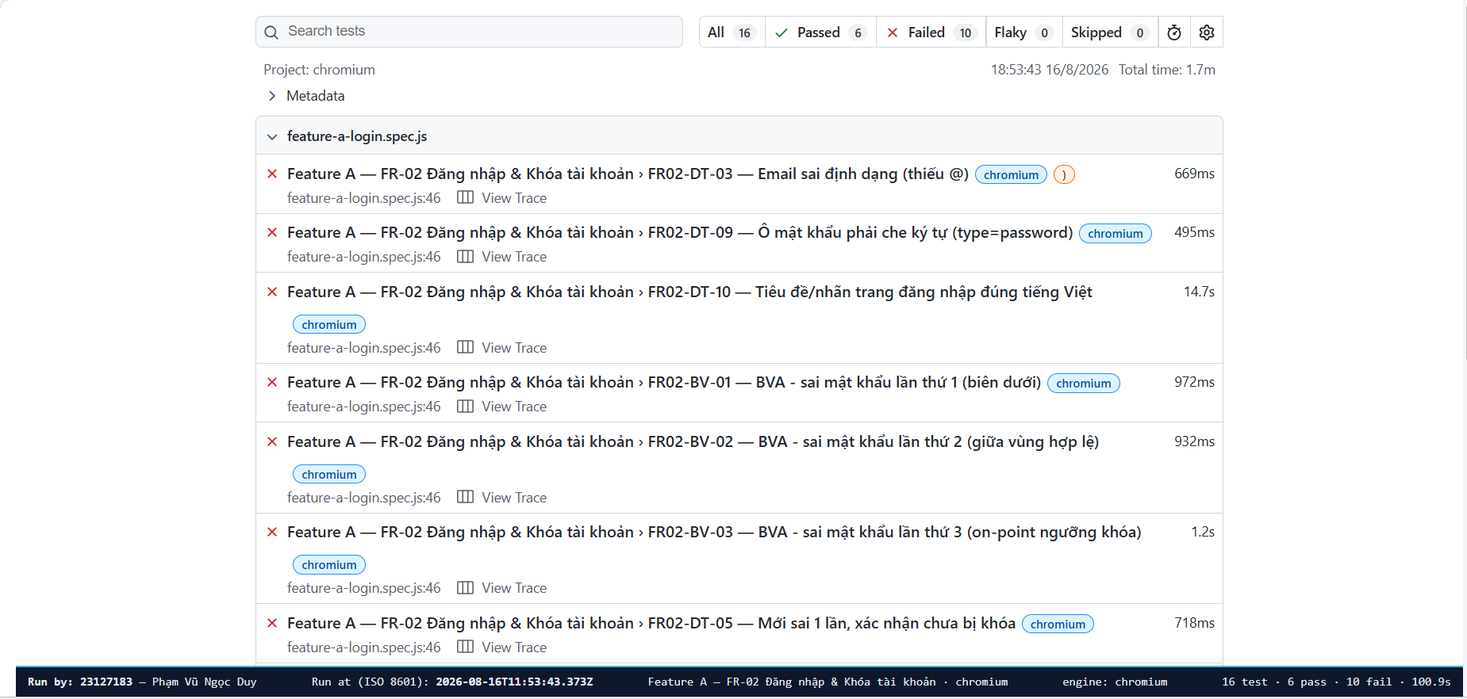
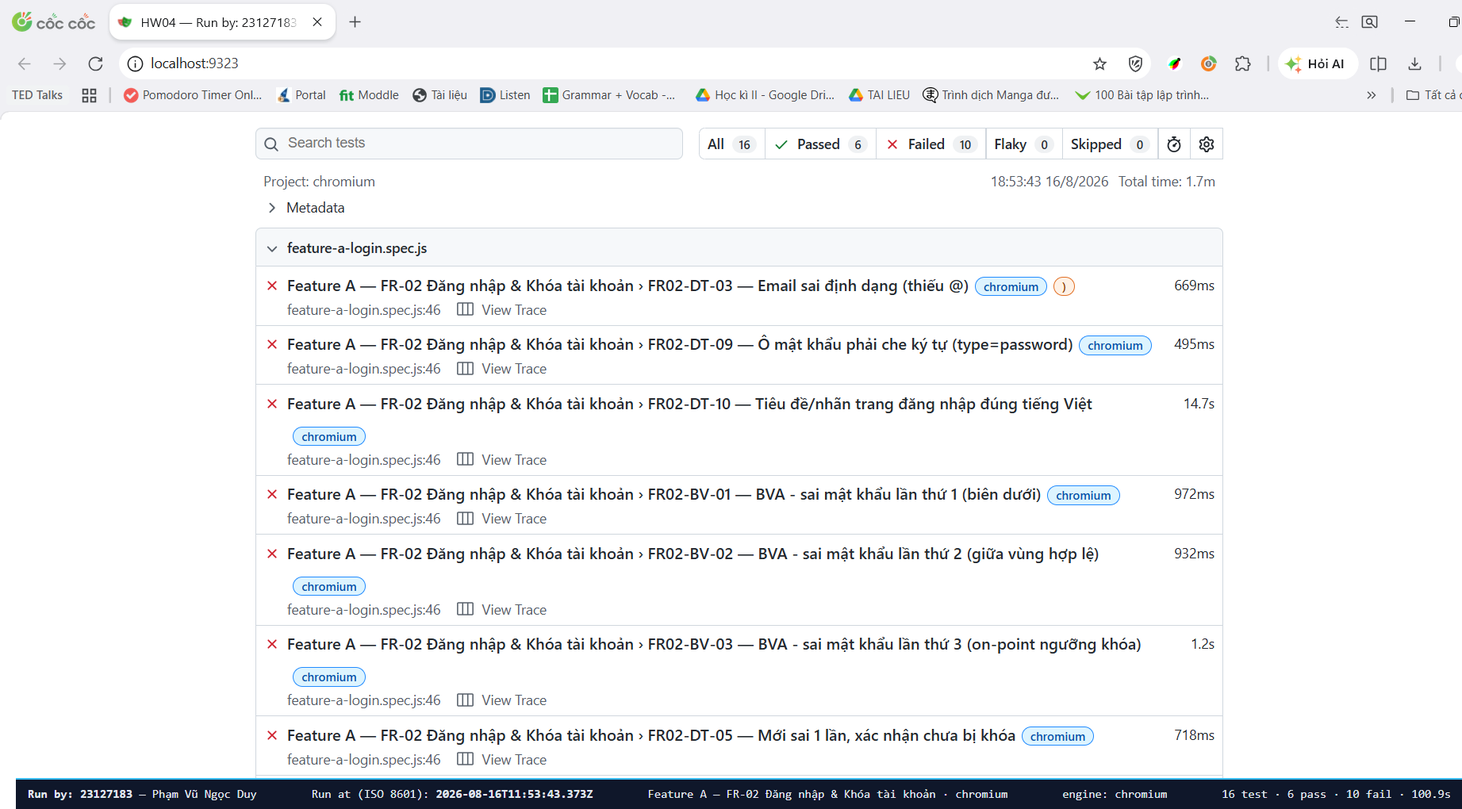
fix(docs10): sua prompt goi skill bi loi Unknown command + rut gon noi dung
Nguoi dung go /automation-suite nhu slash-command va bi Claude Code bao
"Unknown command" - dung, vi Claude Code khong dang ky Agent Skill thanh
slash-command goi bang dau '/'. Sua ca 4 prompt [2][3][4][6] tu cu phap
"/ten-skill ..." sang cau binh thuong co nhac ten skill + duong dan
SKILL.md, de Claude tu nhan dien va goi qua cong cu Skill (hien dong
Skill(...) trong hoi thoai - da them ghi chu quay lai doan do lam bang
chung).

Them nhan 📋 PROMPT [N] ro rang truoc moi khoi prompt (ca trong bang
canh lan muc 4) de phan biet doan nao doc thuyet minh, doan nao dan
nguyen van vao Claude Code.

Rut gon loi thoai trong bang 6 canh (bot cau lap lai, giu nguyen so
lieu/ten bug/chi tiet ky thuat that).

docs/14: danh dau tab-title-manual.png DA DAT sau khi chup lai lan 3 -
tab hien dung "HW04 - Run by: 23127183" (xac nhan bang anh moi nguoi
dung gui).

diff --git a/docs/10-AGENT-SKILLS.md b/docs/10-AGENT-SKILLS.md
@@ -1,12 +1,22 @@
 # Agent Skills (§7) + Kịch bản quay video demo skill
 
 > **Yêu cầu (§7):** nộp Agent Skill **kèm video demo** cho thấy dùng skill **end-to-end trên một
-> feature hoàn chỉnh**. YouTube **Unlisted**. Bảng §15 chấm **10 điểm** cho hạng mục này ⇒ không
-> phải "khuyến khích", cứ coi là bắt buộc.
+> feature hoàn chỉnh**. YouTube **Unlisted**. Bảng §15 chấm **10 điểm** cho hạng mục này.
 >
-> **Kịch bản này dài ~7 phút 20.** Bốn skill, mỗi skill **một cảnh**, làm đúng một công thức ba
-> nhịp — **đọc skill gồm những bước nào → gõ prompt gọi nó → mở thành quả ra xem bên trong có gì**.
-> Feature dùng xuyên suốt: **C — FR-15 Quản lý Sản phẩm** (feature tìm ra cả 2 bug mới của bài).
+> **Kịch bản dài ~7 phút 20.** Bốn skill, mỗi skill **một cảnh**, làm đúng một công thức ba nhịp —
+> **đọc skill gồm bước nào → gõ prompt gọi nó → mở thành quả ra xem**. Feature xuyên suốt:
+> **C — FR-15 Quản lý Sản phẩm** (feature tìm ra cả 2 bug mới của bài).
+
+> ⚠ **Đã sửa lỗi `Unknown command: /automation-suite`.** Claude Code **không** đăng ký Agent
+> Skill thành slash-command để gõ `/tên-skill` như lệnh có sẵn — gõ vậy sẽ báo lỗi đúng như bạn
+> gặp. Cách gọi đúng: viết **câu bình thường có nhắc tên skill** (ví dụ "*Dùng skill
+> automation-suite để...*"), Claude tự nhận diện qua mô tả trong `SKILL.md` rồi gọi bằng công cụ
+> `Skill` nội bộ — bạn sẽ thấy dòng `Skill(automation-suite)` hiện ra trong hội thoại, **đó chính
+> là bằng chứng skill được gọi thật, nhớ quay lại đoạn đó**. Các prompt ở mục 4 bên dưới đã sửa
+> theo cách gọi này.
+>
+> 📋 **Quy ước trong file này:** mọi khối có nhãn **"PROMPT [N]"** là dán **y nguyên** vào Claude
+> Code — không diễn giải, không gõ lại theo ý mình.
 
 ---
 
@@ -32,51 +42,53 @@ câu hỏi đó.
 
 ## 2. Chuẩn bị trước khi bấm REC
 
-- [ ] SUT đang chạy (xem [09-VIDEO-TASK2.md](09-VIDEO-TASK2.md) §0.1), rồi `npm run preflight` → 6 dòng `[OK]`
-- [ ] Mở sẵn **Claude Code** trong VS Code, tại thư mục `HW04-Automation-Testing`
-- [ ] Mở sẵn 5 nhóm tab, **đúng thứ tự sẽ dùng**:
-      1. `docs/10-AGENT-SKILLS.md` (file này, mục 1) — cảnh 1 và 6
-      2. `.claude/skills/automation-suite/SKILL.md` + `tests/pages/admin-products.page.js` — cảnh 2
-      3. `.claude/skills/data-driven-tests/SKILL.md` + `tests/data/feature-c-product-admin.csv` — cảnh 3
-      4. `.claude/skills/multi-browser-report/SKILL.md` + `reports/summary.md` — cảnh 4
-      5. `.claude/skills/ai-audit-logger/SKILL.md` + `ai-audit/ai-audit-report.md` — cảnh 5
-- [ ] Bật mic, tắt thông báo Windows
-- [ ] Terminal + VS Code phóng to chữ
+- [ ] SUT đang chạy ([09-VIDEO-TASK2.md](09-VIDEO-TASK2.md) §0.1), rồi `npm run preflight` → 6 dòng `[OK]`
+- [ ] Mở **Claude Code** trong VS Code, tại thư mục `HW04-Automation-Testing`
+- [ ] Mở sẵn 5 nhóm tab, đúng thứ tự sẽ dùng: (1) file này mục 1 — cảnh 1&6 · (2)
+      `automation-suite/SKILL.md` + `admin-products.page.js` — cảnh 2 · (3)
+      `data-driven-tests/SKILL.md` + `feature-c-product-admin.csv` — cảnh 3 · (4)
+      `multi-browser-report/SKILL.md` + `reports/summary.md` — cảnh 4 · (5)
+      `ai-audit-logger/SKILL.md` + `ai-audit-report.md` — cảnh 5
+- [ ] Bật mic, tắt thông báo Windows, phóng to chữ terminal + VS Code
 
-> **Skill ghi vào `demo/`, không đụng file thật.** Prompt [3] và [4] đã có sẵn dòng cấm sửa `tests/`
-> và `reports/`. Quay xong chạy `Remove-Item -Recurse -Force demo`.
+> **Skill ghi vào `demo/`, không đụng file thật** — prompt [3] và [4] đã có sẵn dòng cấm sửa
+> `tests/`/`reports/`. Quay xong chạy `Remove-Item -Recurse -Force demo`.
 
 ---
 
 ## 3. Kịch bản — 6 cảnh
 
-Cảnh 2 đến 5 làm đúng **ba nhịp**: **(a)** mở `SKILL.md` xem bên trong có gì · **(b)** dán prompt ·
-**(c)** mở thành quả.
+Cảnh 2–5 làm đúng **ba nhịp**: **(a)** mở `SKILL.md` xem bên trong · **(b)** 📋 dán PROMPT (mục 4)
+· **(c)** mở thành quả.
 
 | # | Thời gian | Làm gì | Lời nói |
 |---|-----------|--------|---------|
-| **1** | 0:00–0:40 | Terminal: **lệnh [1]**.<br>Mở `docs/10-AGENT-SKILLS.md` mục 1, chỉ vào bảng 4 skill. | "Em là **Phạm Vũ Ngọc Duy, MSSV 23127183**. Em xây **bốn Agent Skill** cho HW04. Với từng skill em làm ba việc: **mở file skill ra đọc nó gồm những bước nào**, **gõ prompt gọi nó**, rồi **mở thành quả ra xem bên trong có gì**. Cả bốn skill đều **được dùng thật** trong bài — cột cuối của bảng này là dấu vết của từng cái.<br><br>Vì sao dùng skill mà không dùng một prompt gộp? Vì mỗi skill là một **quy trình có checklist**, nó bắt em dừng lại kiểm ở từng bước. Ba lỗi nặng nhất của bài em đều bị bắt bởi đúng một mục checklist trong skill — em sẽ chỉ đúng mục đó ở cảnh ba." |
-| **2** | 0:40–2:25 | **(a)** Mở `automation-suite/SKILL.md`, cuộn qua **6 bước**.<br>**(b)** Dán **prompt [2]**, chạy ~25 giây.<br>**(c)** Mở `tests/pages/admin-products.page.js` — cuộn từ **đầu file** (khối ghi chú) xuống phần locator. | "**Skill 1 — `automation-suite`**, skill chính mà đề mục 7 gọi tên. Nó là quy trình **sáu bước, làm đúng thứ tự**:<br>**Bước 1** — chốt phạm vi và **đọc UI thật**. **Bước 2** — chuyển test case thành **file dữ liệu**, chưa viết script. **Bước 3** — **chọn assertion pattern trước** khi sinh code. **Bước 4** — sinh **page object trước, spec sau**. **Bước 5** — chạy một engine và **phân loại từng Fail** vào đúng một trong năm nhóm. **Bước 6** — chạy đủ ba engine rồi làm **gap analysis**.<br><br>Điểm em muốn nhấn ở **Bước 1**: nó bắt **đối chiếu đặc tả gốc**, không chỉ đọc code. Chính mục checklist đó đã cứu em một lần — em định báo bug *'nút Xóa sản phẩm không hỏi xác nhận'*, nhưng khi đối chiếu đặc tả thì thấy yêu cầu dialog xác nhận nằm ở **mục FR-07 về giỏ hàng**, không phải FR-15. **Báo bug sai đặc tả còn tệ hơn không báo**, nên em bỏ và ghi thành quan sát UX.<br><br>Em gọi Bước 1 cho feature Quản lý sản phẩm.<br><br>**Thành quả — file `admin-products.page.js`.** Đầu file là **khối ghi chú** skill viết ra: trang admin **không có một `id` hay `data-testid` nào**, tab chuyển bằng React state nên **URL không đổi** — nghĩa là feature này **không dùng được assertion pattern URL**, phải bù bằng pattern đọc state thật trong database. Bên dưới là locator neo theo `placeholder` và theo vai trò. Cả file **không có một câu assertion nào** — nó chỉ biết bấm và đọc." |
-| **3** | 2:25–4:15 | **(a)** Mở `data-driven-tests/SKILL.md`, cuộn qua 6 bước, **dừng lại ở Bước 4**.<br>**(b)** Dán **prompt [3]**, chạy ~25 giây.<br>**(c)** Mở `demo/feature-c.demo.csv` cạnh `tests/data/feature-c-product-admin.csv`. | "**Skill 2 — `data-driven-tests`.** Đề mục 6 bắt test data nằm ở file riêng. Skill này gồm **sáu bước**: chọn CSV hay JSON · các cột bắt buộc · **token** cho những giá trị mà file phẳng không viết được · **kiểm loader có làm hộ việc của SUT không** · chọn assertion pattern · tự kiểm trước khi commit.<br><br>**Bước 4 là bước em muốn nói kỹ nhất** — và là bước dễ bỏ qua nhất. Nó bắt tự hỏi: *'với mỗi phép biến đổi mà hàm đọc dữ liệu thực hiện, nếu có một test case đang kiểm CHÍNH phép biến đổi đó, thì hàm đọc dữ liệu có làm hộ hệ thống không?'*<br><br>Chính câu hỏi này đã tìm ra một **Pass giả** trong bài em. Test case `FR09-BV-R03` kiểm *hệ thống có tự cắt khoảng trắng thừa trong mã giảm giá không*. Nhưng hàm đọc dữ liệu **cắt sẵn khoảng trắng** trước khi tới tay test — nên test nhận chuỗi đã sạch, được chấp nhận, và **báo xanh**. Công lao trim là của **hàm đọc dữ liệu**, không phải của hệ thống. Test đó **không kiểm được điều nó tuyên bố** mà vẫn Pass. Em sửa bằng cách tắt trim riêng cho JSON.<br><br>**Thành quả — file dữ liệu.** Mỗi test case có **mười bảy trường**. Đáng chú ý: **`tcId`** truy ngược về test case HW02; **`mode`** cho biết kịch bản nào — tạo, sửa, xóa, hay gọi thẳng API; **`expect`** là kỳ vọng **ghi theo đặc tả** chứ không theo hệ thống đang chạy; **`rejectVia`** ghi **cơ chế** chặn là client hay server — nhờ cột này mà bắt được loại Pass giả *'bị từ chối nhưng sai tầng'*; và **`note`** ghi lý do chọn giá trị đó, đây là cột cứu em ở buổi vấn đáp." |
-| **4** | 4:15–5:50 | **(a)** Mở `multi-browser-report/SKILL.md`, cuộn qua 6 bước, **dừng ở Bước 5**.<br>**(b)** Dán **prompt [4]** → chạy **lệnh [5]** (~2 phút 45, nói trong lúc chạy).<br>**(c)** Mở `reports/summary.md`, cuộn qua 4 bảng. | "**Skill 3 — `multi-browser-report`.** Gồm **sáu bước**: kiểm hệ thống trước khi chạy · **chạy đủ chín lượt** · **kiểm bằng chứng mã số sinh viên** trên report thật · **tổng hợp số liệu, không đếm tay** · **đọc kết quả cho đúng** · nộp kèm những gì.<br><br>Skill này ghi sẵn **hai cái bẫy** mà em đã tự sa vào. Bẫy thứ nhất: truyền cờ `--reporter` trên dòng lệnh sẽ **ghi đè cả cấu hình reporter**, làm **không file report nào được tạo ra** — em mất một lượt chạy vì đúng lỗi này. Bẫy thứ hai: đọc tên engine từ danh sách project trong file JSON sẽ **luôn ra `chromium`**, vì đó là danh sách **cấu hình** chứ không phải danh sách **đã chạy**.<br><br>**Bước 5 là bước em dùng nhiều nhất:** Fail giống nhau trên cả ba engine là **bug thật**; Fail chỉ một engine thì **phải mở log ra xem, không được đoán**; Pass mà thấy nghi thì nghĩ tới Pass giả. Em gặp đúng ca thứ hai: hai test chỉ Fail trên firefox. Nếu đoán, em đã viết vào báo cáo là *'hệ thống hành xử khác nhau theo browser'* — **sai**. Đọc log thật thì đó là **lỗi hạ tầng của chính Firefox** lúc đóng browser context; chạy lại riêng thì Pass.<br><br>**Thành quả — file tổng hợp.** Bốn bảng: **Tổng** — 53 test case, 9 lượt, 159 lần thực thi, **0 flaky**; **Theo feature**; **Chín lượt chạy** — mỗi dòng một HTML report riêng; và **danh sách test case Fail kèm engine nào Fail** — dùng để viết bug report. Tất cả sinh tự động, em **không gõ tay số nào**." |
-| **5** | 5:50–6:55 | **(a)** Mở `ai-audit-logger/SKILL.md`, dừng ở mục **ba trường riêng của HW04** và **bảng bốn nhóm nguyên nhân**.<br>**(b)** Dán **prompt [6]**.<br>**(c)** Mở `ai-audit/ai-audit-report.md`, cuộn qua bảng mục lục rồi một mục chi tiết. | "**Skill 4 — `ai-audit-logger`.** Đề mục 9 bắt nộp AI Audit Report — thiếu là **không điểm cả bài** theo mục 17.<br><br>**Bên trong:** ngoài bốn thông tin đề yêu cầu là tên công cụ, thời gian, **prompt nguyên văn** và kết quả, skill bắt ghi thêm **ba trường riêng cho HW04** — **AI sai hoặc bỏ sót gì**, **vì sao nó bỏ sót**, và **em đã sửa thành gì**. Trường 'vì sao' phải phân loại vào **đúng một trong bốn nhóm**: do chất lượng prompt của em, do giới hạn mô hình, do đặc thù feature, hay do **giả định về môi trường vận hành**.<br><br>Skill còn ghi một ghi chú mà em thấy đúng nhất: nhóm nguy hiểm nhất **không nằm trong bốn nhóm trên**, mà là khoảng cách giữa **ý định đã viết thành lời** và **hành vi thật của code**. Em gặp đúng ca đó: comment ghi rõ *'test case này dùng token hợp lệ, khác nhóm kia'* nhưng code **không hề cài đặt** phân biệt đó. Loại lỗi này **chỉ bắt được bằng cách chạy thật rồi đối chiếu kết quả với ý định** — đọc code không thấy, vì code và comment đọc riêng thì cái nào cũng hợp lý.<br><br>**Thành quả — báo cáo này**, gồm **mười lăm mục** ghi prompt nguyên văn từng lượt, và ba trường riêng đó **chép thẳng sang báo cáo chính**: viết một lần, dùng hai chỗ." |
-| **6** | 6:55–7:20 | Mở lại `docs/10-AGENT-SKILLS.md` mục 1. | "Bốn skill, mỗi cái lo một khâu, áp dụng lại **đúng một quy trình** cho cả ba feature. Giá trị lớn nhất không phải AI viết code nhanh hơn — mà là **quy trình bắt em kiểm lại chính mình**. Như Bước 4 của skill dữ liệu nhắc câu hỏi *'loader có làm hộ hệ thống không'*, nhờ đó em tìm ra một test case xanh mà **không kiểm được gì cả**. Không có checklist đó thì em đã tin vào màu xanh. Em cảm ơn thầy/cô đã xem." |
+| **1** | 0:00–0:40 | Terminal: lệnh [1].<br>Mở mục 1 file này, chỉ vào bảng 4 skill. | "Em là **Phạm Vũ Ngọc Duy, MSSV 23127183**. Em xây **bốn Agent Skill** cho HW04. Với từng skill em làm ba việc: **mở SKILL.md đọc nó gồm bước nào**, **gõ prompt gọi nó**, rồi **mở thành quả ra xem**. Cả bốn skill đều **dùng thật** — cột cuối bảng này là dấu vết.<br><br>Vì sao dùng skill thay vì một prompt gộp? Vì mỗi skill là **quy trình có checklist**, bắt em dừng lại kiểm từng bước. Ba lỗi nặng nhất bài em đều bị bắt bởi đúng một mục checklist — em sẽ chỉ ra ở cảnh ba." |
+| **2** | 0:40–2:25 | **(a)** Mở `automation-suite/SKILL.md`, cuộn qua 6 bước.<br>**(b)** 📋 **PROMPT [2]**, chạy ~25s.<br>**(c)** Mở `admin-products.page.js` từ khối ghi chú đầu file xuống locator. | "**Skill 1 — `automation-suite`**, skill chính đề mục 7 gọi tên. Quy trình **sáu bước đúng thứ tự**: Bước 1 chốt phạm vi và **đọc UI thật**; Bước 2 chuyển test case thành **file dữ liệu**; Bước 3 **chọn assertion pattern trước** khi sinh code; Bước 4 sinh **page object trước, spec sau**; Bước 5 chạy một engine và phân loại Fail; Bước 6 chạy đủ ba engine rồi làm gap analysis.<br><br>Bước 1 bắt **đối chiếu đặc tả gốc**, không chỉ đọc code — mục này cứu em một lần: em định báo bug *'nút Xóa không hỏi xác nhận'*, nhưng đối chiếu đặc tả thì thấy dialog xác nhận thuộc **FR-07 giỏ hàng**, không phải FR-15. Báo sai đặc tả còn tệ hơn không báo, nên em bỏ, ghi lại thành quan sát UX.<br><br>Em gọi Bước 1 cho Quản lý sản phẩm.<br><br>**Thành quả.** Đầu file `admin-products.page.js` là khối ghi chú skill viết: trang admin **không có `id`/`data-testid` nào**, tab chuyển bằng React state nên **URL không đổi** — feature này không dùng được pattern URL, phải bù bằng đọc state thật trong database. Cả file **không một câu assertion** — chỉ bấm và đọc." |
+| **3** | 2:25–4:15 | **(a)** Mở `data-driven-tests/SKILL.md`, dừng ở Bước 4.<br>**(b)** 📋 **PROMPT [3]**, chạy ~25s.<br>**(c)** Mở `demo/feature-c.demo.csv` cạnh bản gốc `tests/data/`. | "**Skill 2 — `data-driven-tests`.** Đề mục 6 bắt test data nằm file riêng. Sáu bước: chọn CSV/JSON · cột bắt buộc · token cho giá trị file phẳng không viết được · **kiểm loader có làm hộ việc của SUT không** · chọn assertion pattern · tự kiểm trước commit.<br><br>**Bước 4 là bước em nói kỹ nhất**, cũng dễ bỏ qua nhất: *'phép biến đổi nào hàm đọc dữ liệu làm, nếu có test đang kiểm CHÍNH phép biến đổi đó, thì hàm đọc có làm hộ hệ thống không?'*<br><br>Câu hỏi này tìm ra một **Pass giả** thật: `FR09-BV-R03` kiểm hệ thống có tự cắt khoảng trắng thừa trong mã giảm giá không, nhưng hàm đọc dữ liệu **đã cắt sẵn** trước khi tới tay test — công lao là của hàm đọc, không phải hệ thống. Test **không kiểm được điều nó tuyên bố** mà vẫn Pass. Em sửa bằng cách tắt trim riêng cho JSON.<br><br>**Thành quả.** Mỗi dòng 17 trường: `tcId` truy ngược HW02; `mode` là tạo/sửa/xóa/gọi API; `expect` ghi theo **đặc tả**, không theo hệ thống đang chạy; `rejectVia` ghi cơ chế chặn client hay server — cột bắt được Pass giả 'bị từ chối sai tầng'; `note` ghi lý do chọn giá trị, cứu em ở buổi vấn đáp." |
+| **4** | 4:15–5:50 | **(a)** Mở `multi-browser-report/SKILL.md`, dừng ở Bước 5.<br>**(b)** 📋 **PROMPT [4]** → chạy lệnh [5] (~2p45, nói trong lúc chạy).<br>**(c)** Mở `reports/summary.md`, cuộn 4 bảng. | "**Skill 3 — `multi-browser-report`.** Sáu bước: kiểm SUT trước khi chạy · chạy đủ **chín lượt** · kiểm bằng chứng MSSV trên report thật · tổng hợp số liệu **không đếm tay** · **đọc kết quả cho đúng** · nộp kèm những gì.<br><br>Skill ghi sẵn hai bẫy em tự sa vào: cờ `--reporter` trên CLI **ghi đè cả cấu hình reporter**, làm không file report nào được tạo — em mất một lượt vì đúng lỗi này. Và đọc tên engine từ `config.projects` sẽ **luôn ra chromium**, vì đó là danh sách cấu hình chứ không phải đã chạy.<br><br>**Bước 5 dùng nhiều nhất:** Fail giống nhau cả ba engine là bug thật; Fail chỉ một engine **phải mở log xem, không đoán**; Pass mà nghi thì nghĩ tới Pass giả. Em gặp ca thứ hai: hai test chỉ Fail trên firefox. Nếu đoán, em đã viết 'hệ thống hành xử khác theo browser' — sai. Đọc log thật là lỗi hạ tầng của Firefox lúc đóng context; chạy lại riêng thì Pass.<br><br>**Thành quả.** Bốn bảng: Tổng — 53 test case, 9 lượt, 159 lần thực thi, **0 flaky**; theo feature; chín lượt chạy; và danh sách TC Fail kèm engine — dùng viết bug report. Tất cả sinh tự động, không gõ tay số nào." |
+| **5** | 5:50–6:55 | **(a)** Mở `ai-audit-logger/SKILL.md`, dừng ở ba trường riêng HW04 + bảng bốn nhóm nguyên nhân.<br>**(b)** 📋 **PROMPT [6]**.<br>**(c)** Mở `ai-audit-report.md`, cuộn mục lục rồi một mục chi tiết. | "**Skill 4 — `ai-audit-logger`.** Đề mục 9 bắt nộp AI Audit Report — thiếu là **0 điểm cả bài** theo mục 17.<br><br>Ngoài bốn trường đề yêu cầu (công cụ, thời gian, **prompt nguyên văn**, kết quả), skill bắt ghi thêm ba trường riêng HW04: AI sai/bỏ sót gì, vì sao (phân vào đúng 1 trong 4 nhóm: chất lượng prompt / giới hạn mô hình / đặc thù feature / giả định môi trường), và đã sửa thành gì.<br><br>Ghi chú đúng nhất trong skill: nhóm nguy hiểm nhất **không nằm trong 4 nhóm trên** — là khoảng cách giữa **ý định viết thành lời** và **hành vi thật của code**. Em gặp đúng ca đó: comment ghi 'TC này dùng token hợp lệ, khác nhóm kia' nhưng code **không hề cài đặt** phân biệt đó — chỉ bắt được bằng chạy thật rồi đối chiếu, đọc code không thấy vì đọc riêng cái nào cũng hợp lý.<br><br>**Thành quả** — báo cáo này, giờ đã 15 mục, ba trường riêng đó **chép thẳng sang báo cáo chính**: viết một lần, dùng hai chỗ." |
+| **6** | 6:55–7:20 | Mở lại mục 1 file này. | "Bốn skill, mỗi cái lo một khâu, áp lại **đúng một quy trình** cho cả ba feature. Giá trị lớn nhất không phải AI viết nhanh hơn — mà quy trình **bắt em kiểm lại chính mình**: Bước 4 skill dữ liệu nhắc câu 'loader có làm hộ hệ thống không', nhờ đó tìm ra một test xanh mà không kiểm được gì cả. Không có checklist đó em đã tin vào màu xanh. Em cảm ơn thầy/cô đã xem." |
 
 ---
 
 ## 4. Lệnh & prompt copy-paste sẵn
 
-> **Lưu ý — lệnh terminal phải nằm trọn một dòng.** Đứt dòng là PowerShell chạy vế đầu như một lệnh
-> riêng. Copy bằng **nút copy** của trình soạn thảo, đừng bôi đen bằng chuột.
+> **Lệnh terminal phải nằm trọn một dòng** — đứt dòng là PowerShell chạy vế đầu như lệnh riêng.
+> Copy bằng nút copy của trình soạn thảo, đừng bôi đen bằng chuột.
+>
+> **Prompt gọi skill KHÔNG bắt đầu bằng `/`** — chỉ nhắc tên skill trong câu bình thường (xem cảnh
+> báo đầu file). Cả 4 prompt dưới đây đã sửa theo cách này.
 
 **[1] Xác thực tác giả — cảnh 1**
 ```powershell
 whoami; hostname
 ```
 
-**[2] Skill 1 — cảnh 2.** Dán vào Claude Code:
+📋 **PROMPT [2] — Skill 1, cảnh 2.** Dán vào Claude Code:
 ```
-/automation-suite Làm Bước 1 cho Feature C (FR-15 Quản lý Sản phẩm) của EShop.
+Dùng skill automation-suite (đọc .claude/skills/automation-suite/SKILL.md trước khi làm) để thực
+hiện Bước 1 cho Feature C (FR-15 Quản lý Sản phẩm) của EShop.
 Đọc mã nguồn thật: frontend-admin/src/App.jsx (phần activeTab products, handleProductSubmit, deleteProduct)
 và backend/server.js các route /api/products.
 Cho biết: selector nào dùng được, state của feature nằm ở đâu, URL có đổi khi chuyển tab không,
@@ -84,9 +96,10 @@ và đối chiếu với đặc tả FR-15 + FR-12 trong eshop-sut/README.md xem
 Chỉ phân tích, chưa viết test, không sửa file nào.
 ```
 
-**[3] Skill 2 — cảnh 3.** Dán vào Claude Code:
+📋 **PROMPT [3] — Skill 2, cảnh 3.** Dán vào Claude Code:
 ```
-/data-driven-tests Chuyển test case Feature C (FR-15 Quản lý Sản phẩm) từ HW02 thành file dữ liệu .csv ngoài.
+Dùng skill data-driven-tests (đọc .claude/skills/data-driven-tests/SKILL.md trước khi làm) để
+chuyển test case Feature C (FR-15 Quản lý Sản phẩm) từ HW02 thành file dữ liệu .csv ngoài.
 Cột expect ghi theo ĐẶC TẢ FR-15, không theo hành vi hiện tại của SUT.
 Chạy Bước 4 của skill: kiểm xem hàm đọc dữ liệu có làm hộ việc của SUT ở chỗ nào không.
 
@@ -94,9 +107,10 @@ QUAN TRỌNG: ghi kết quả ra demo/feature-c.demo.csv.
 TUYỆT ĐỐI không sửa hay ghi đè bất kỳ file nào trong tests/ — đang quay video.
 ```
 
-**[4] Skill 3 — cảnh 4.** Dán vào Claude Code:
+📋 **PROMPT [4] — Skill 3, cảnh 4.** Dán vào Claude Code:
 ```
-/multi-browser-report Cho tôi lệnh chạy Feature C trên cả 3 browser engine, mỗi lượt một HTML report riêng.
+Dùng skill multi-browser-report (đọc .claude/skills/multi-browser-report/SKILL.md trước khi làm).
+Cho tôi lệnh chạy Feature C trên cả 3 browser engine, mỗi lượt một HTML report riêng.
 Report phải hiện "Run by: 23127183" kèm timestamp ISO.
 Ghi kết quả vào demo/ để không đè lên 9 report đã nộp kèm báo cáo.
 ```
@@ -106,19 +120,20 @@ Ghi kết quả vào demo/ để không đè lên 9 report đã nộp kèm báo 
 $env:REPORTS_ROOT="demo/reports"; node tools/run-all-browsers.mjs c; Remove-Item Env:REPORTS_ROOT
 ```
 
-**[6] Skill 4 — cảnh 5.** Dán vào Claude Code:
+📋 **PROMPT [6] — Skill 4, cảnh 5.** Dán vào Claude Code:
 ```
-/ai-audit-logger Ghi lại phiên làm việc vừa rồi vào AI Audit Report: em đã gọi skill automation-suite,
-data-driven-tests và multi-browser-report cho Feature C.
+Dùng skill ai-audit-logger (đọc .claude/skills/ai-audit-logger/SKILL.md trước khi làm) để ghi lại
+phiên làm việc vừa rồi vào AI Audit Report: em đã gọi skill automation-suite, data-driven-tests
+và multi-browser-report cho Feature C.
 Điền đủ 3 trường riêng của HW04: AI sai hoặc bỏ sót gì, vì sao bỏ sót (phân loại vào 1 trong 4 nhóm),
 và em đã sửa thành gì.
 ```
 
-> **Mẹo — nếu skill chạy lâu:** quay cảnh nó **nhận lệnh và bắt đầu chạy**, tạm dừng ~25 giây, rồi
-> mở thành quả ra giải thích. Vẫn trung thực — đó chính là thứ skill tạo ra thật.
+> **Nếu skill chạy lâu:** quay cảnh nó nhận lệnh và bắt đầu chạy, tạm dừng ~25 giây, rồi mở thành
+> quả ra giải thích — vẫn trung thực, vì đó chính là thứ skill tạo ra thật.
 >
-> **Mẹo cho cảnh 4:** lượt **firefox chậm nhất** (~2 phút 15 trong 2 phút 45). Dùng đúng khoảng đó
-> để nói phần "hai cái bẫy" và "Bước 5 đọc kết quả cho đúng" — vừa khít, không phải chờ im lặng.
+> **Cảnh 4:** lượt firefox chậm nhất (~2 phút 15 trong 2 phút 45) — dùng đúng khoảng đó để nói
+> phần "hai cái bẫy" và "Bước 5 đọc kết quả cho đúng", vừa khít, không phải chờ im lặng.
 
 ---
 
